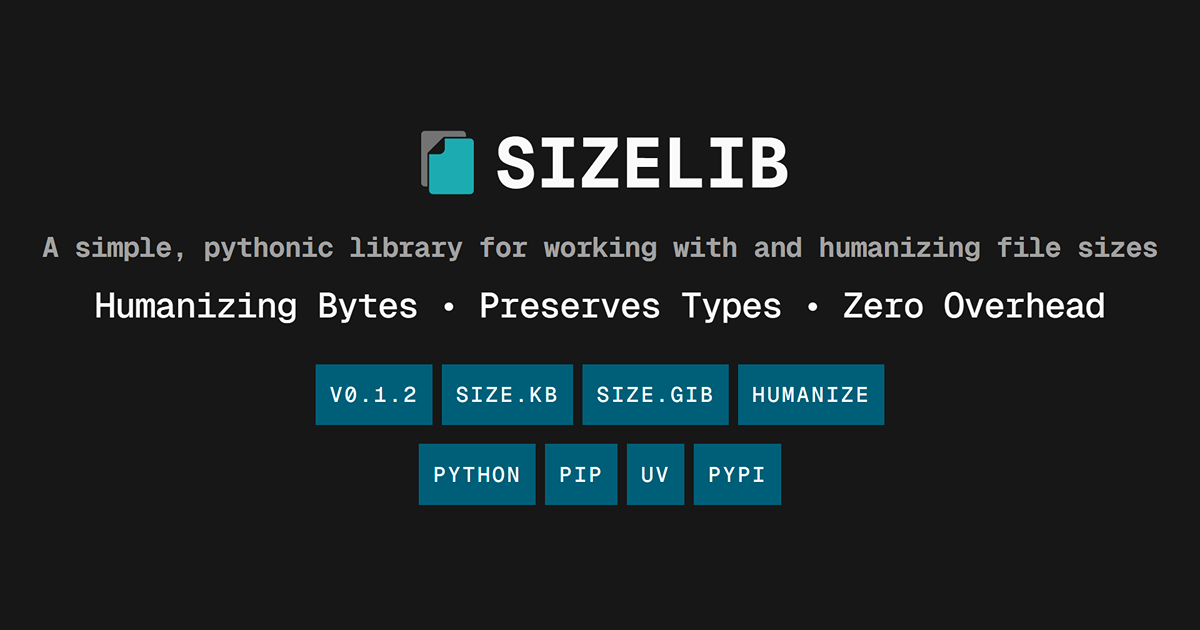
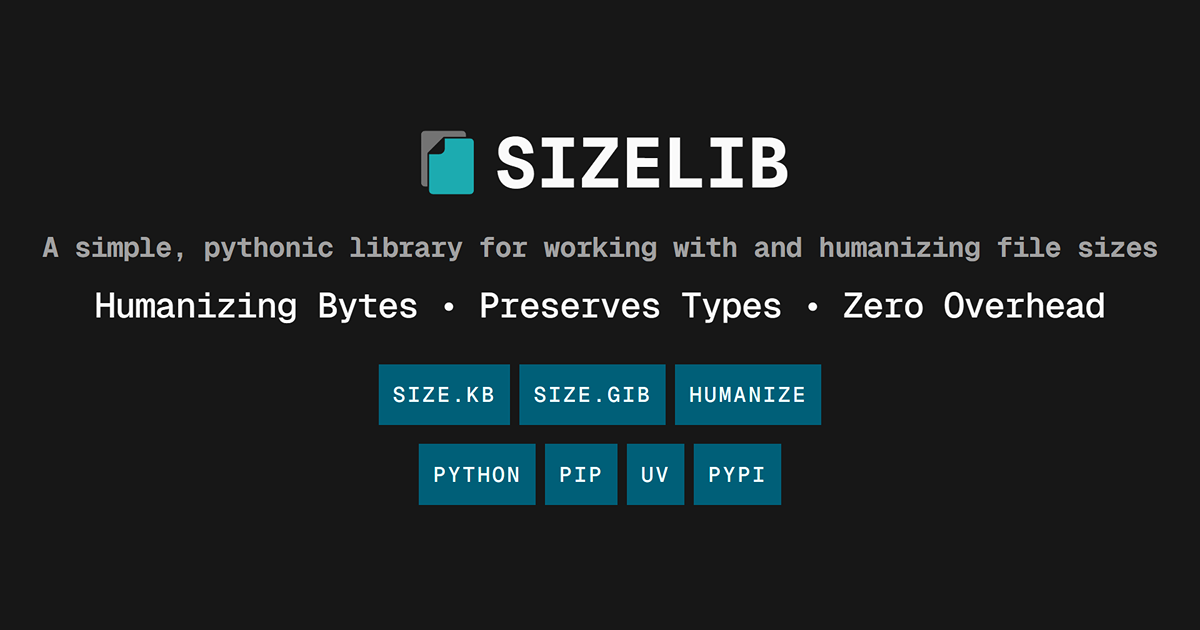
Update UI

Changed region(s): [[0.2467, 0.573, 0.74, 0.6937]]

diff --git a/web/src/app/resources/page.tsx b/web/src/app/resources/page.tsx
@@ -28,11 +28,11 @@ export default function Page() {
 
       <div className="grid grid-cols-1 md:grid-cols-2 gap-4 mt-6">
         {/* Card 1: PyPI Package */}
-        <div className="border border-border bg-card">
+        <div className="border border-border bg-card rounded-lg overflow-hidden">
           <div className="flex flex-col justify-between p-5 bg-muted/10 h-full">
             <div className="space-y-3">
               <div className="flex items-center gap-3">
-                <div className="p-2 bg-muted/40 text-emerald-500 border border-border rounded-none">
+                <div className="p-2 bg-muted/40 text-emerald-500 border border-border rounded-lg">
                   <IconBrandPython className="h-6 w-6" />
                 </div>
                 <h3 className="font-bold text-base text-foreground">
@@ -49,7 +49,7 @@ export default function Page() {
                 href="https://pypi.org/project/sizelib"
                 target="_blank"
                 rel="noopener noreferrer"
-                className="inline-flex items-center gap-1.5 px-3 py-1.5 text-xs font-semibold rounded-none border border-border bg-muted/40 hover:bg-muted/80 text-foreground transition-colors cursor-pointer w-fit h-8"
+                className="inline-flex items-center gap-1.5 px-3 py-1.5 text-xs font-semibold rounded-lg border border-border bg-muted/40 hover:bg-muted/80 text-foreground transition-colors cursor-pointer w-fit h-8"
               >
                 <IconBrandPython className="h-4 w-4 text-emerald-500" />
                 <span>PyPI</span>
@@ -59,11 +59,11 @@ export default function Page() {
         </div>
 
         {/* Card 2: GitHub Repository */}
-        <div className="border border-border bg-card">
+        <div className="border border-border bg-card rounded-lg overflow-hidden">
           <div className="flex flex-col justify-between p-5 bg-muted/10 h-full">
             <div className="space-y-3">
               <div className="flex items-center gap-3">
-                <div className="p-2 bg-muted/40 text-foreground border border-border rounded-none">
+                <div className="p-2 bg-muted/40 text-foreground border border-border rounded-lg">
                   <IconBrandGithub className="h-6 w-6" />
                 </div>
                 <h3 className="font-bold text-base text-foreground">
@@ -80,7 +80,7 @@ export default function Page() {
                 href="https://github.com/saptarshiroy39/sizelib"
                 target="_blank"
                 rel="noopener noreferrer"
-                className="inline-flex items-center gap-1.5 px-3 py-1.5 text-xs font-semibold rounded-none border border-border bg-muted/40 hover:bg-muted/80 text-foreground transition-colors cursor-pointer w-fit h-8"
+                className="inline-flex items-center gap-1.5 px-3 py-1.5 text-xs font-semibold rounded-lg border border-border bg-muted/40 hover:bg-muted/80 text-foreground transition-colors cursor-pointer w-fit h-8"
               >
                 <IconBrandGithub className="h-4 w-4" />
                 <span>GitHub</span>
@@ -90,11 +90,11 @@ export default function Page() {
         </div>
 
         {/* Card 3: Submit an Issue */}
-        <div className="border border-border bg-card">
+        <div className="border border-border bg-card rounded-lg overflow-hidden">
           <div className="flex flex-col justify-between p-5 bg-muted/10 h-full">
             <div className="space-y-3">
               <div className="flex items-center gap-3">
-                <div className="p-2 bg-muted/40 text-blue-500 border border-border rounded-none">
+                <div className="p-2 bg-muted/40 text-blue-500 border border-border rounded-lg">
                   <IconCircleDot className="h-6 w-6" />
                 </div>
                 <h3 className="font-bold text-base text-foreground">
@@ -111,7 +111,7 @@ export default function Page() {
                 href="https://github.com/saptarshiroy39/sizelib/issues"
                 target="_blank"
                 rel="noopener noreferrer"
-                className="inline-flex items-center gap-1.5 px-3 py-1.5 text-xs font-semibold rounded-none border border-border bg-muted/40 hover:bg-muted/80 text-foreground transition-colors cursor-pointer w-fit h-8"
+                className="inline-flex items-center gap-1.5 px-3 py-1.5 text-xs font-semibold rounded-lg border border-border bg-muted/40 hover:bg-muted/80 text-foreground transition-colors cursor-pointer w-fit h-8"
               >
                 <IconCircleDot className="h-4 w-4 text-blue-500" />
                 <span>Issues</span>
@@ -121,11 +121,11 @@ export default function Page() {
         </div>
 
         {/* Card 4: Support sizelib */}
-        <div className="border border-border bg-card">
+        <div className="border border-border bg-card rounded-lg overflow-hidden">
           <div className="flex flex-col justify-between p-5 bg-muted/10 h-full">
             <div className="space-y-3">
               <div className="flex items-center gap-3">
-                <div className="p-2 bg-muted/40 text-rose-500 border border-border rounded-none">
+                <div className="p-2 bg-muted/40 text-rose-500 border border-border rounded-lg">
                   <IconHeart className="h-6 w-6" />
                 </div>
                 <h3 className="font-bold text-base text-foreground">
@@ -141,7 +141,7 @@ export default function Page() {
                 href="https://github.com/sponsors/saptarshiroy39"
                 target="_blank"
                 rel="noopener noreferrer"
-                className="inline-flex items-center gap-1.5 px-3 py-1.5 text-xs font-semibold rounded-none border border-border bg-muted/40 hover:bg-muted/80 text-foreground transition-colors cursor-pointer w-fit h-8"
+                className="inline-flex items-center gap-1.5 px-3 py-1.5 text-xs font-semibold rounded-lg border border-border bg-muted/40 hover:bg-muted/80 text-foreground transition-colors cursor-pointer w-fit h-8"
               >
                 <IconHeart className="h-4 w-4 text-rose-500" />
                 <span>Sponsor</span>

diff --git a/web/src/app/size/page.tsx b/web/src/app/size/page.tsx
@@ -88,10 +88,10 @@ export default function Page() {
 
       <ApiRenderer signature="sizelib.size.<helper>(value: int | float) -> int | float" />
 
-      <div className="my-4 overflow-x-auto border border-border">
+      <div className="my-4 overflow-x-auto border border-border bg-card rounded-lg overflow-hidden">
         <table className="w-full text-left border-collapse text-xs">
           <thead>
-            <tr className="bg-muted/50 border-b border-border">
+            <tr className="bg-muted/40 border-b border-border">
               <th className="p-3 font-bold text-muted-foreground uppercase">
                 Helper Method
               </th>
@@ -107,7 +107,7 @@ export default function Page() {
             </tr>
           </thead>
           <tbody className="divide-y divide-border">
-            <tr className="hover:bg-muted/5">
+            <tr className="hover:bg-muted/20 transition-colors">
               <td className="p-3 text-foreground/80 leading-normal font-bold">
                 size.b(value)
               </td>
@@ -119,7 +119,7 @@ export default function Page() {
                 1
               </td>
             </tr>
-            <tr className="hover:bg-muted/5">
+            <tr className="hover:bg-muted/20 transition-colors">
               <td className="p-3 text-foreground/80 leading-normal font-bold">
                 size.kb(value)
               </td>
@@ -131,7 +131,7 @@ export default function Page() {
                 1,000
               </td>
             </tr>
-            <tr className="hover:bg-muted/5">
+            <tr className="hover:bg-muted/20 transition-colors">
               <td className="p-3 text-foreground/80 leading-normal font-bold">
                 size.mb(value)
               </td>
@@ -143,7 +143,7 @@ export default function Page() {
                 1,000,000
               </td>
             </tr>
-            <tr className="hover:bg-muted/5">
+            <tr className="hover:bg-muted/20 transition-colors">
               <td className="p-3 text-foreground/80 leading-normal font-bold">
                 size.gb(value)
               </td>
@@ -155,7 +155,7 @@ export default function Page() {
                 1,000,000,000
               </td>
             </tr>
-            <tr className="hover:bg-muted/5">
+            <tr className="hover:bg-muted/20 transition-colors">
               <td className="p-3 text-foreground/80 leading-normal font-bold">
                 size.tb(value)
               </td>
@@ -167,7 +167,7 @@ export default function Page() {
                 1,000,000,000,000
               </td>
             </tr>
-            <tr className="hover:bg-muted/5">
+            <tr className="hover:bg-muted/20 transition-colors">
               <td className="p-3 text-foreground/80 leading-normal font-bold">
                 size.kib(value)
               </td>
@@ -179,7 +179,7 @@ export default function Page() {
                 1,024
               </td>
             </tr>
-            <tr className="hover:bg-muted/5">
+            <tr className="hover:bg-muted/20 transition-colors">
               <td className="p-3 text-foreground/80 leading-normal font-bold">
                 size.mib(value)
               </td>
@@ -191,7 +191,7 @@ export default function Page() {
                 1,048,576
               </td>
             </tr>
-            <tr className="hover:bg-muted/5">
+            <tr className="hover:bg-muted/20 transition-colors">
               <td className="p-3 text-foreground/80 leading-normal font-bold">
                 size.gib(value)
               </td>
@@ -203,7 +203,7 @@ export default function Page() {
                 1,073,741,824
               </td>
             </tr>
-            <tr className="hover:bg-muted/5">
+            <tr className="hover:bg-muted/20 transition-colors">
               <td className="p-3 text-foreground/80 leading-normal font-bold">
                 size.tib(value)
               </td>

diff --git a/web/src/app/humanize/page.tsx b/web/src/app/humanize/page.tsx
@@ -54,10 +54,10 @@ export default function Page() {
 
       <ApiRenderer signature="sizelib.humanize(size_bytes: int | float, base: int = 2) -> str" />
 
-      <div className="my-4 overflow-x-auto border border-border">
+      <div className="my-4 overflow-x-auto border border-border bg-card rounded-lg overflow-hidden">
         <table className="w-full text-left border-collapse text-xs">
           <thead>
-            <tr className="bg-muted/50 border-b border-border">
+            <tr className="bg-muted/40 border-b border-border">
               <th className="p-3 font-bold text-muted-foreground uppercase">
                 Parameter
               </th>
@@ -73,7 +73,7 @@ export default function Page() {
             </tr>
           </thead>
           <tbody className="divide-y divide-border">
-            <tr className="hover:bg-muted/5">
+            <tr className="hover:bg-muted/20 transition-colors">
               <td className="p-3 text-foreground/80 leading-normal font-bold">
                 size_bytes
               </td>
@@ -87,7 +87,7 @@ export default function Page() {
                 The size value in bytes to humanize. Must not be negative.
               </td>
             </tr>
-            <tr className="hover:bg-muted/5">
+            <tr className="hover:bg-muted/20 transition-colors">
               <td className="p-3 text-foreground/80 leading-normal font-bold">
                 base
               </td>
@@ -111,10 +111,10 @@ export default function Page() {
         </table>
       </div>
 
-      <div className="my-4 overflow-x-auto border border-border">
+      <div className="my-4 overflow-x-auto border border-border bg-card rounded-lg overflow-hidden">
         <table className="w-full text-left border-collapse text-xs">
           <thead>
-            <tr className="bg-muted/50 border-b border-border">
+            <tr className="bg-muted/40 border-b border-border">
               <th className="p-3 font-bold text-muted-foreground uppercase">
                 Returns
               </th>
@@ -124,7 +124,7 @@ export default function Page() {
             </tr>
           </thead>
           <tbody className="divide-y divide-border">
-            <tr className="hover:bg-muted/5">
+            <tr className="hover:bg-muted/20 transition-colors">
               <td className="p-3 text-foreground/80 leading-normal text-sidebar-primary font-bold">
                 str
               </td>

diff --git a/web/src/components/DocBlocks.tsx b/web/src/components/DocBlocks.tsx
@@ -20,7 +20,7 @@ export function CopyButton({ text }: { text: string }) {
   return (
     <button
       onClick={handleCopy}
-      className="p-1 border border-border bg-background text-muted-foreground hover:text-sidebar-primary hover:border-sidebar-primary/45 rounded-none transition-colors cursor-pointer"
+      className="p-1 border border-border bg-background text-muted-foreground hover:text-sidebar-primary hover:border-sidebar-primary/45 rounded-lg transition-colors cursor-pointer"
       title="Copy to clipboard"
     >
       {copied ? (
@@ -178,7 +178,7 @@ export function CodeBlockRenderer({
   });
 
   return (
-    <div className="my-4 border border-border bg-card font-mono text-sm leading-relaxed">
+    <div className="my-4 border border-border bg-card font-mono text-sm leading-relaxed rounded-lg overflow-hidden">
       <div className="flex items-center justify-between px-4 py-2 border-b border-border bg-muted/40">
         <span className="text-xs font-bold text-muted-foreground flex items-center gap-1.5">
           <IconCode className="h-3.5 w-3.5 text-sidebar-primary" />
@@ -196,7 +196,7 @@ export function CodeBlockRenderer({
 
 export function ApiRenderer({ signature }: { signature: string }) {
   return (
-    <div className="my-4 border border-border bg-card font-mono text-sm leading-relaxed">
+    <div className="my-4 border border-border bg-card font-mono text-sm leading-relaxed rounded-lg overflow-hidden">
       <div className="flex items-center justify-between px-4 py-2 border-b border-border bg-muted/40">
         <span className="text-xs font-bold text-muted-foreground flex items-center gap-1.5">
           <IconCode className="h-3.5 w-3.5 text-sidebar-primary" />

diff --git a/web/src/app/globals.css b/web/src/app/globals.css
@@ -70,7 +70,7 @@
   --chart-3: oklch(0.609 0.126 221.723);
   --chart-4: oklch(0.52 0.105 223.128);
   --chart-5: oklch(0.45 0.085 224.283);
-  --radius: 0;
+  --radius: 6px;
   --sidebar: oklch(0.985 0 0);
   --sidebar-foreground: oklch(0.145 0 0);
   --sidebar-primary: oklch(0.609 0.126 221.723);
@@ -121,13 +121,16 @@
   * {
     @apply border-border outline-ring/50;
   }
+
   body {
     @apply bg-background text-foreground;
   }
+
   button:not(:disabled),
   [role="button"]:not(:disabled) {
     cursor: pointer;
   }
+
   html {
     @apply font-mono;
   }
@@ -138,3 +141,5 @@
   animation: none;
   mix-blend-mode: normal;
 }
+
+

diff --git a/web/src/app/og/page.tsx b/web/src/app/og/page.tsx
@@ -4,7 +4,7 @@ import { Badge } from "@/components/ui/badge";
 import Image from "next/image";
 
 export default function OG() {
-  const row1 = ["v0.1.2", "size.kb", "size.gib", "humanize"];
+  const row1 = ["size.kb", "size.gib", "humanize"];
   const row2 = ["Python", "pip", "uv", "PyPI"];
 
   return (
